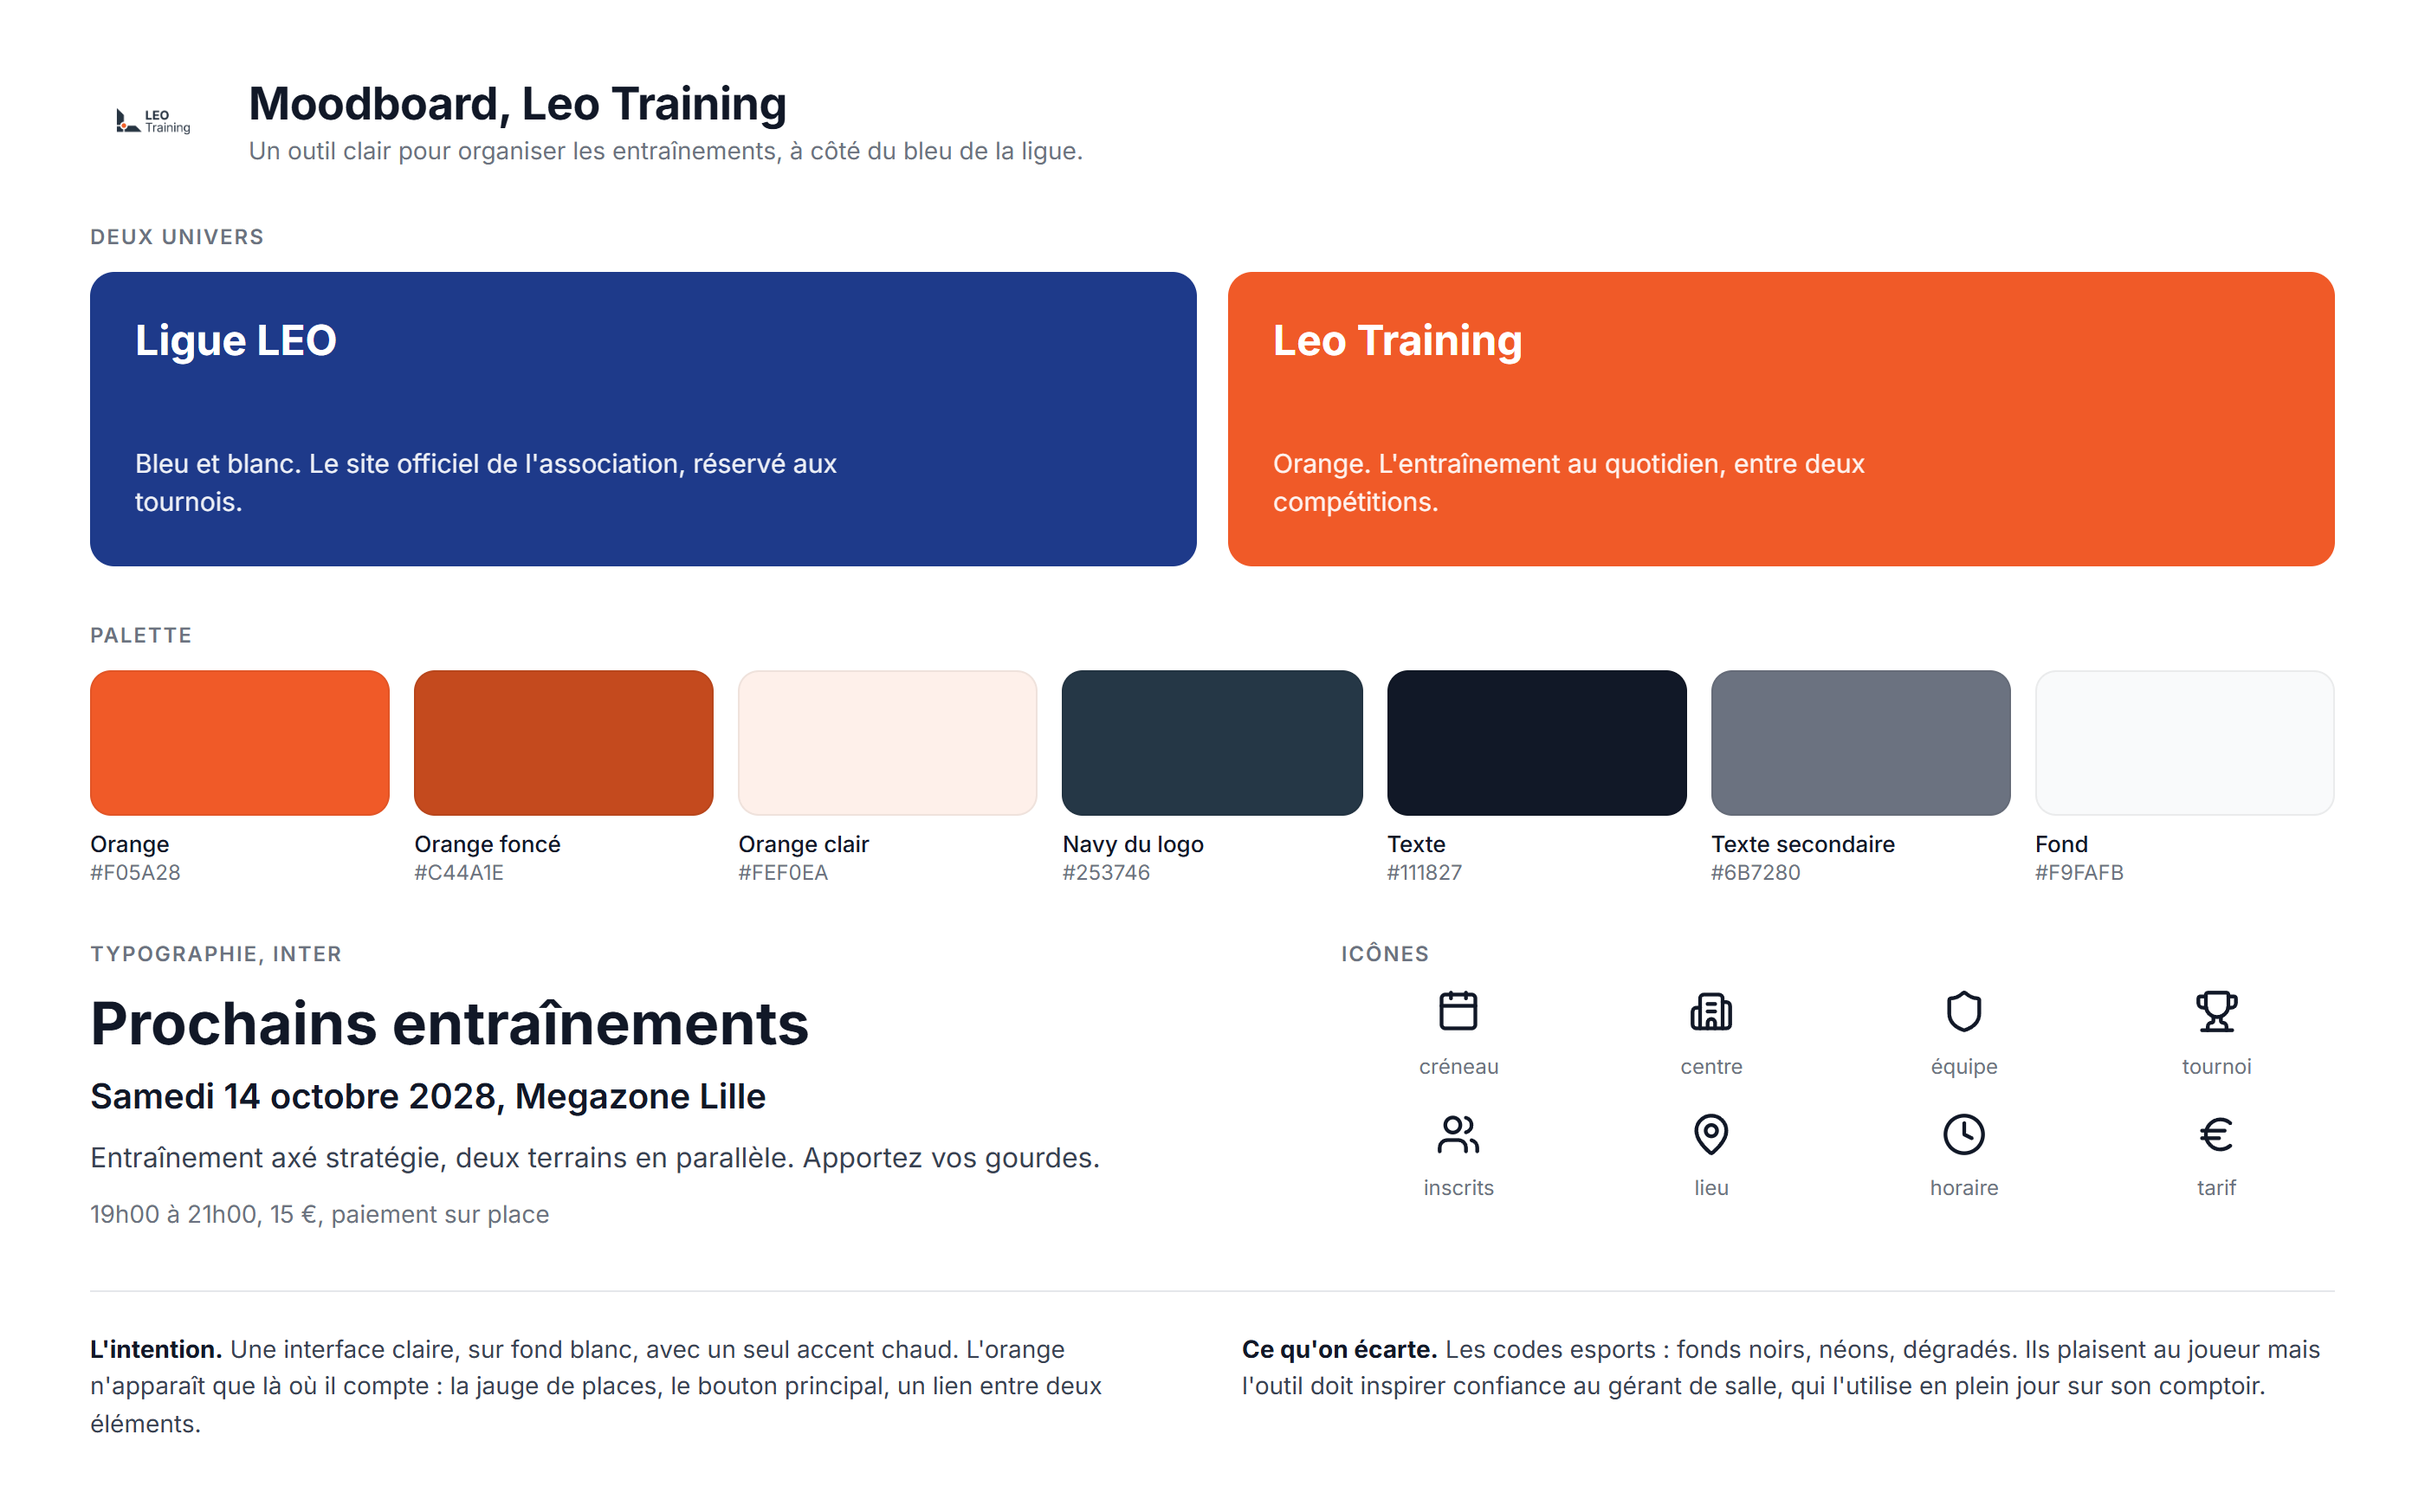
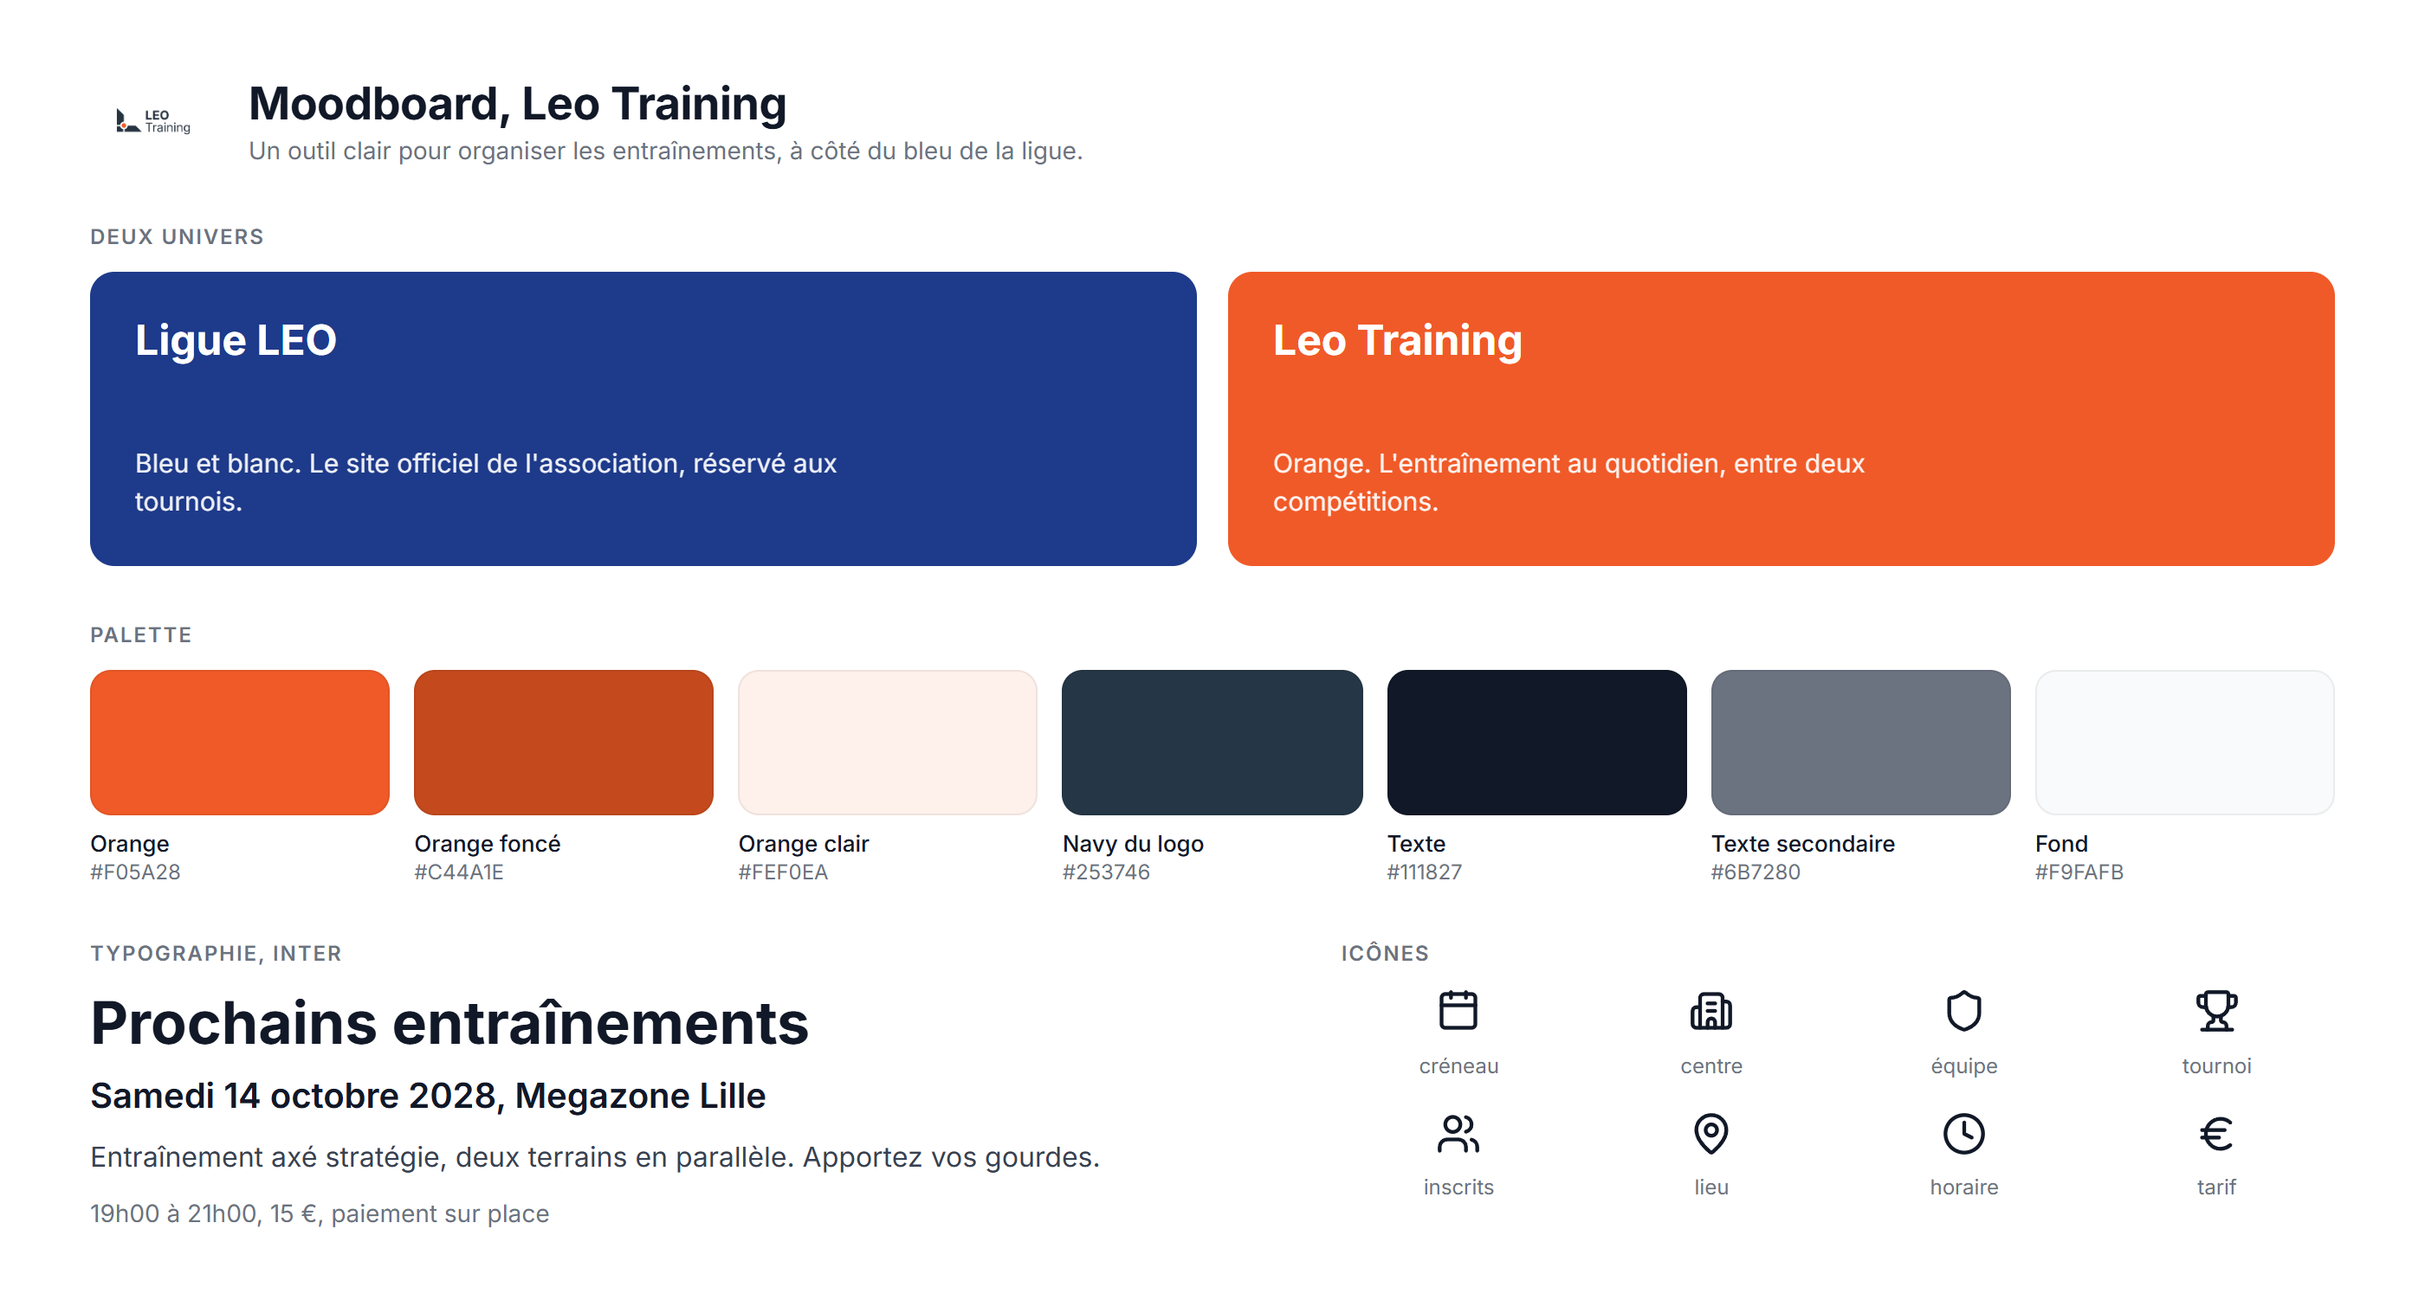
docs: drop the written intent from the moodboard image

diff --git a/docs/moodboard.md b/docs/moodboard.md
@@ -1,6 +1,6 @@
 # Moodboard, Leo Training
 
-> Planche visuelle : `diagrams/moodboard.png`. Deux univers, palette, typographie, icônes et intention. Le détail des tokens et des contrastes est dans `DESIGN.md`.
+> Planche visuelle : `diagrams/moodboard.png`. Deux univers, palette, typographie, icônes. L'intention se dit à l'oral, le détail des tokens et des contrastes est dans `DESIGN.md`.
 
 ## Intention
 
